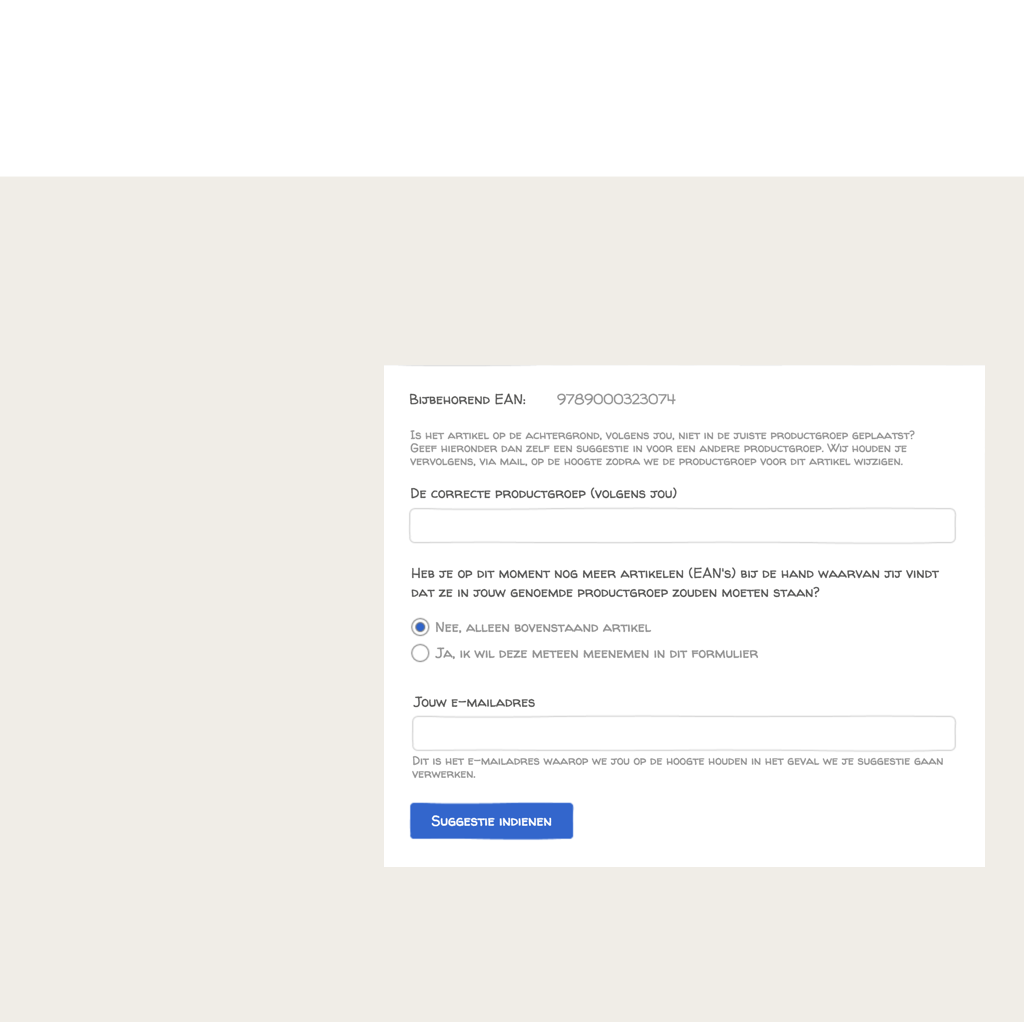
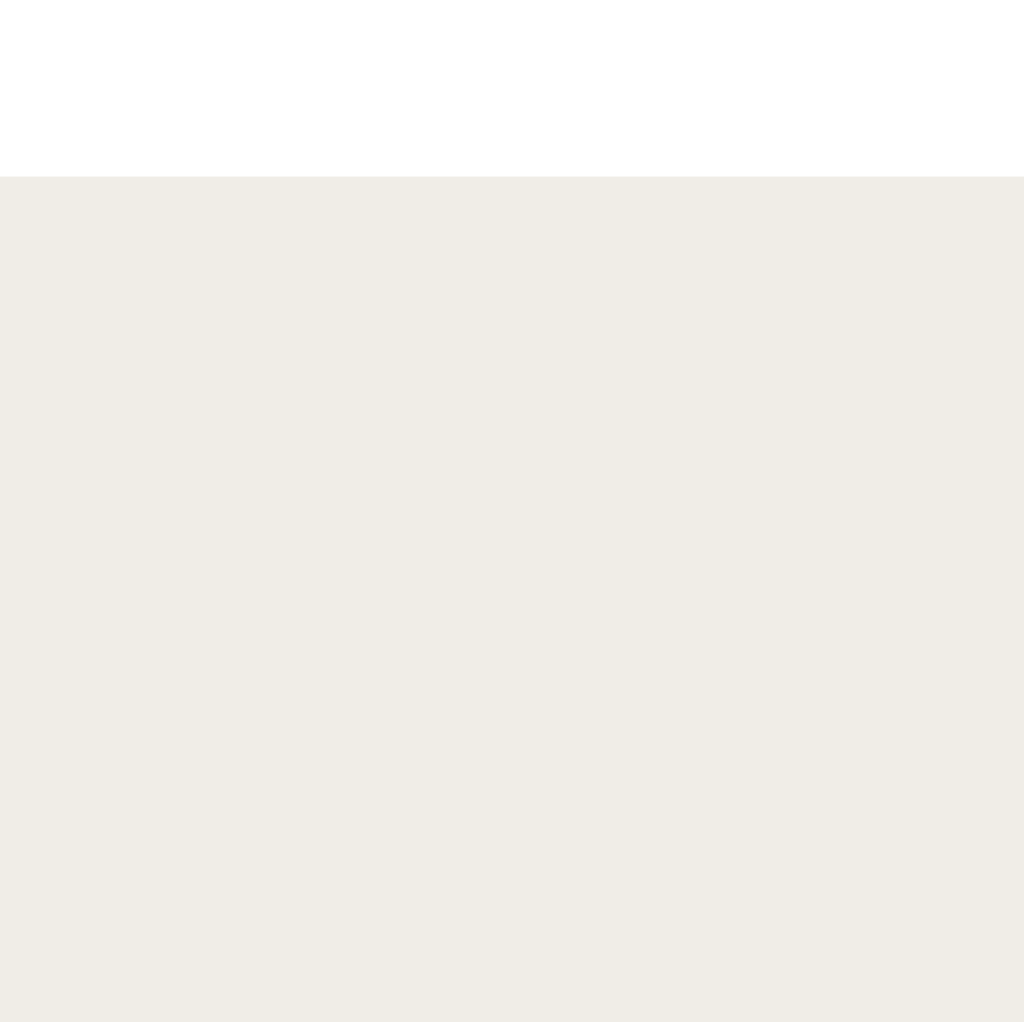
destroy unnecessary forms

diff --git a/feedback_google.framer/framer/framer.generated.js b/feedback_google.framer/framer/framer.generated.js
@@ -11,18 +11,18 @@ window.__imported__["feedback/layers.json.js"] = [
     "children" : [
       {
         "maskFrame" : null,
-        "id" : "D3606723-C456-46CB-B216-55F40236775F",
+        "id" : "598F23F6-50D9-4F9F-BF4B-F24EDEFB9657",
         "visible" : true,
         "children" : [
           {
             "maskFrame" : null,
-            "id" : "86198FAE-78E9-483D-B7EF-D66C8C152EFE",
+            "id" : "7234AB34-5B6B-452A-A05D-FB2E2A54E666",
             "visible" : true,
             "children" : [
 
             ],
             "image" : {
-              "path" : "images\/Layer-close-86198FAE-78E9-483D-B7EF-D66C8C152EFE.png",
+              "path" : "images\/Layer-close-7234AB34-5B6B-452A-A05D-FB2E2A54E666.png",
               "frame" : {
                 "y" : 375,
                 "x" : 977,
@@ -52,11 +52,11 @@ window.__imported__["feedback/layers.json.js"] = [
           }
         ],
         "image" : {
-          "path" : "images\/Layer-google-D3606723-C456-46CB-B216-55F40236775F.png",
+          "path" : "images\/Layer-custom-598F23F6-50D9-4F9F-BF4B-F24EDEFB9657.png",
           "frame" : {
             "y" : 351,
-            "x" : 548,
-            "width" : 463,
+            "x" : 361,
+            "width" : 650,
             "height" : 541
           }
         },
@@ -67,9 +67,73 @@ window.__imported__["feedback/layers.json.js"] = [
         },
         "layerFrame" : {
           "y" : 351,
-          "x" : 548,
-          "width" : 463,
+          "x" : 361,
+          "width" : 650,
           "height" : 541
+        },
+        "name" : "custom"
+      },
+      {
+        "maskFrame" : null,
+        "id" : "D3606723-C456-46CB-B216-55F40236775F",
+        "visible" : false,
+        "children" : [
+          {
+            "maskFrame" : null,
+            "id" : "86198FAE-78E9-483D-B7EF-D66C8C152EFE",
+            "visible" : true,
+            "children" : [
+
+            ],
+            "image" : {
+              "path" : "images\/Layer-close-86198FAE-78E9-483D-B7EF-D66C8C152EFE.png",
+              "frame" : {
+                "y" : 372,
+                "x" : 975,
+                "width" : 12,
+                "height" : 14
+              }
+            },
+            "imageType" : "png",
+            "kind" : "text",
+            "metadata" : {
+              "css" : [
+                "\/* Type something: *\/",
+                "font-family: BolSymbols;",
+                "font-size: 12px;",
+                "color: #000000;",
+                "line-height: 12px;"
+              ],
+              "string" : ""
+            },
+            "layerFrame" : {
+              "y" : 372,
+              "x" : 975,
+              "width" : 12,
+              "height" : 14
+            },
+            "name" : "close"
+          }
+        ],
+        "image" : {
+          "path" : "images\/Layer-google-D3606723-C456-46CB-B216-55F40236775F.png",
+          "frame" : {
+            "y" : 357,
+            "x" : 560,
+            "width" : 439,
+            "height" : 517
+          }
+        },
+        "imageType" : "png",
+        "kind" : "group",
+        "metadata" : {
+          "opacity" : 1
+        },
+        "layerFrame" : {
+          "y" : 357,
+          "x" : 560,
+          "width" : 439,
+          "height" : 517
         },
         "name" : "google"
       },

diff --git a/feedback_google.framer/imported/feedback@1x/layers.json.js b/feedback_google.framer/imported/feedback@1x/layers.json.js
@@ -7,18 +7,18 @@ window.__imported__["feedback/layers.json.js"] = [
     "children" : [
       {
         "maskFrame" : null,
-        "id" : "D3606723-C456-46CB-B216-55F40236775F",
+        "id" : "598F23F6-50D9-4F9F-BF4B-F24EDEFB9657",
         "visible" : true,
         "children" : [
           {
             "maskFrame" : null,
-            "id" : "86198FAE-78E9-483D-B7EF-D66C8C152EFE",
+            "id" : "7234AB34-5B6B-452A-A05D-FB2E2A54E666",
             "visible" : true,
             "children" : [
 
             ],
             "image" : {
-              "path" : "images\/Layer-close-86198FAE-78E9-483D-B7EF-D66C8C152EFE.png",
+              "path" : "images\/Layer-close-7234AB34-5B6B-452A-A05D-FB2E2A54E666.png",
               "frame" : {
                 "y" : 375,
                 "x" : 977,
@@ -48,11 +48,11 @@ window.__imported__["feedback/layers.json.js"] = [
           }
         ],
         "image" : {
-          "path" : "images\/Layer-google-D3606723-C456-46CB-B216-55F40236775F.png",
+          "path" : "images\/Layer-custom-598F23F6-50D9-4F9F-BF4B-F24EDEFB9657.png",
           "frame" : {
             "y" : 351,
-            "x" : 548,
-            "width" : 463,
+            "x" : 361,
+            "width" : 650,
             "height" : 541
           }
         },
@@ -63,9 +63,73 @@ window.__imported__["feedback/layers.json.js"] = [
         },
         "layerFrame" : {
           "y" : 351,
-          "x" : 548,
-          "width" : 463,
+          "x" : 361,
+          "width" : 650,
           "height" : 541
+        },
+        "name" : "custom"
+      },
+      {
+        "maskFrame" : null,
+        "id" : "D3606723-C456-46CB-B216-55F40236775F",
+        "visible" : false,
+        "children" : [
+          {
+            "maskFrame" : null,
+            "id" : "86198FAE-78E9-483D-B7EF-D66C8C152EFE",
+            "visible" : true,
+            "children" : [
+
+            ],
+            "image" : {
+              "path" : "images\/Layer-close-86198FAE-78E9-483D-B7EF-D66C8C152EFE.png",
+              "frame" : {
+                "y" : 372,
+                "x" : 975,
+                "width" : 12,
+                "height" : 14
+              }
+            },
+            "imageType" : "png",
+            "kind" : "text",
+            "metadata" : {
+              "css" : [
+                "\/* Type something: *\/",
+                "font-family: BolSymbols;",
+                "font-size: 12px;",
+                "color: #000000;",
+                "line-height: 12px;"
+              ],
+              "string" : ""
+            },
+            "layerFrame" : {
+              "y" : 372,
+              "x" : 975,
+              "width" : 12,
+              "height" : 14
+            },
+            "name" : "close"
+          }
+        ],
+        "image" : {
+          "path" : "images\/Layer-google-D3606723-C456-46CB-B216-55F40236775F.png",
+          "frame" : {
+            "y" : 357,
+            "x" : 560,
+            "width" : 439,
+            "height" : 517
+          }
+        },
+        "imageType" : "png",
+        "kind" : "group",
+        "metadata" : {
+          "opacity" : 1
+        },
+        "layerFrame" : {
+          "y" : 357,
+          "x" : 560,
+          "width" : 439,
+          "height" : 517
         },
         "name" : "google"
       },
